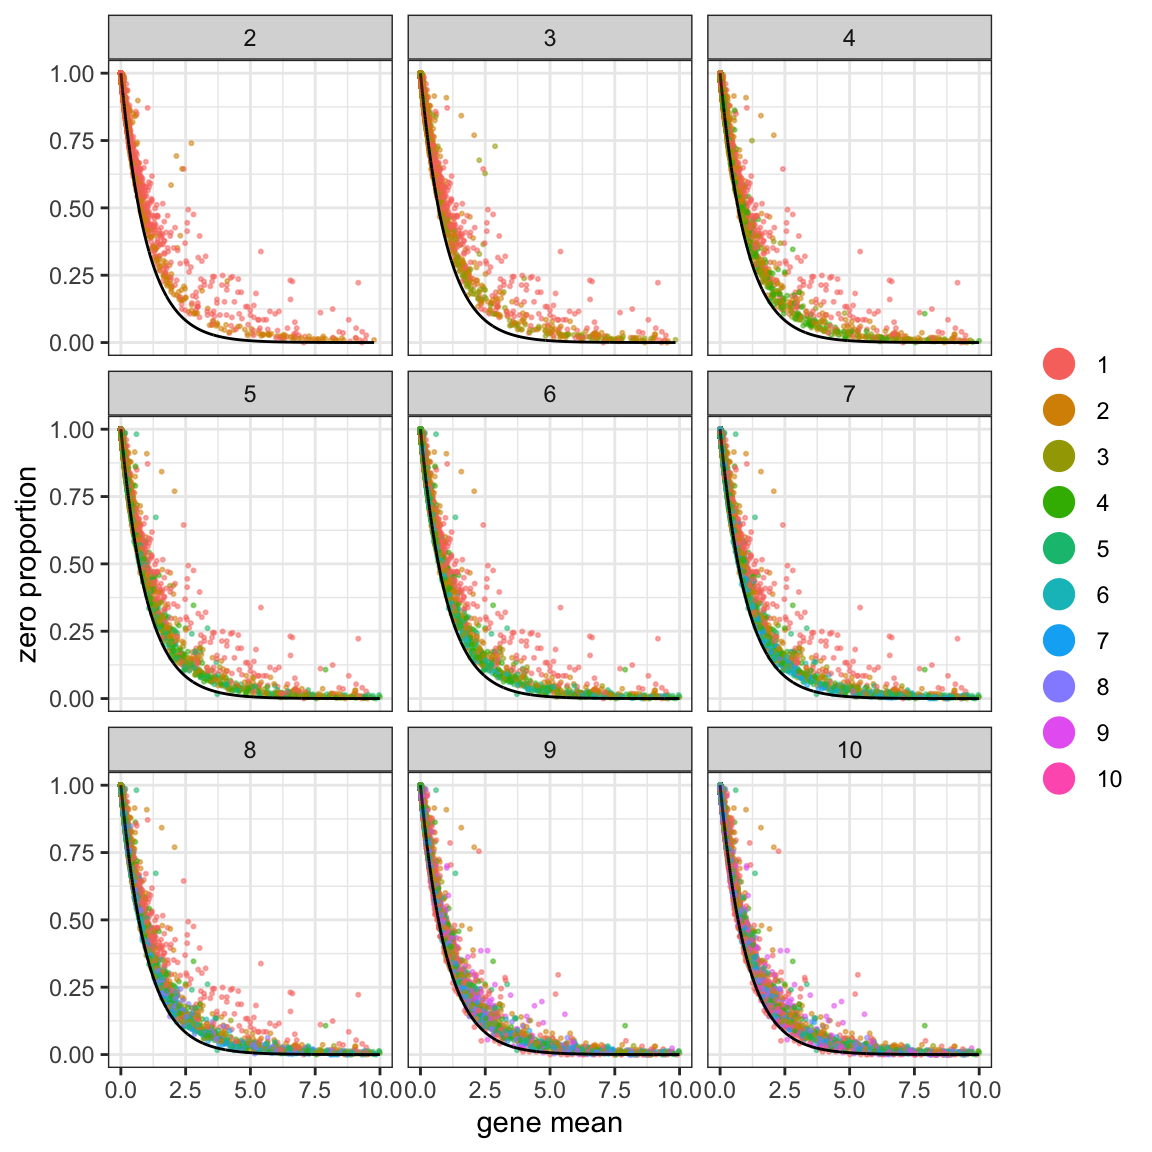
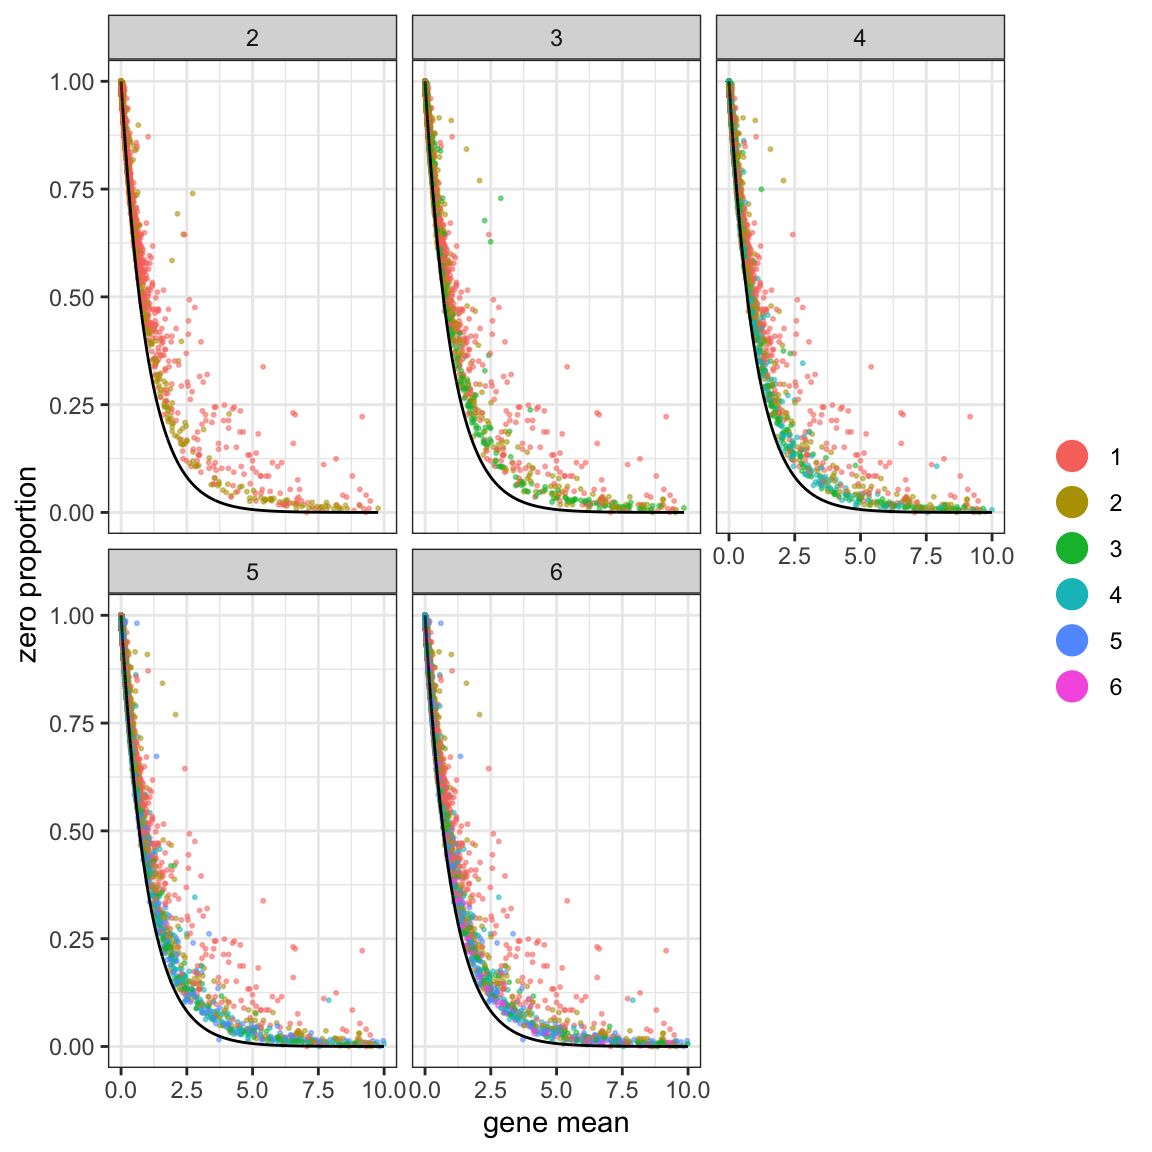
Build site.

diff --git a/docs/example2.html b/docs/example2.html
@@ -418,10 +418,10 @@ This reproducible <a href="http://rmarkdown.rstudio.com">R Markdown</a> analysis
 <div class="panel panel-default">
 <div class="panel-heading">
 <p class="panel-title">
-<a data-toggle="collapse" data-parent="#workflowr-checks" href="#strongRepositoryversionstrongahrefhttpsgithubcomtk382HIPPOtreee5f797b66f62043a381fa83a7489ae9f5953279btargetblanke5f797ba"> <span class="glyphicon glyphicon-ok text-success" aria-hidden="true"></span> <strong>Repository version:</strong> <a href="https://github.com/tk382/HIPPO/tree/e5f797b66f62043a381fa83a7489ae9f5953279b" target="_blank">e5f797b</a> </a>
+<a data-toggle="collapse" data-parent="#workflowr-checks" href="#strongRepositoryversionstrongahrefhttpsgithubcomtk382HIPPOtree3531e4b053947044296239ba485475125898c919targetblank3531e4ba"> <span class="glyphicon glyphicon-ok text-success" aria-hidden="true"></span> <strong>Repository version:</strong> <a href="https://github.com/tk382/HIPPO/tree/3531e4b053947044296239ba485475125898c919" target="_blank">3531e4b</a> </a>
 </p>
 </div>
[2 lines of base64/hex data omitted]
 <div class="panel-body">
 <p>
 Great! You are using Git for version control. Tracking code development and connecting the code version to the results is critical for reproducibility. The version displayed above was the version of the Git repository at the time these results were generated. <br><br> Note that you need to be careful to ensure that all relevant files for the analysis have been committed to Git prior to generating the results (you can use <code>wflow_publish</code> or <code>wflow_git_commit</code>). workflowr only checks the R Markdown file, but you know if there are other scripts or data files that it depends on. Below is the status of the Git repository when the results were generated:
@@ -476,6 +476,40 @@ Message
 </tr>
 </thead>
 <tbody>
+<tr>
+<td>
+Rmd
+</td>
+<td>
+<a href="https://github.com/tk382/HIPPO/blob/3531e4b053947044296239ba485475125898c919/analysis/example2.Rmd" target="_blank">3531e4b</a>
+</td>
+<td>
+tk382
+</td>
+<td>
+2020-01-22
+</td>
+<td>
+wflow_publish(“analysis/example2.Rmd”,
+</td>
+</tr>
+<tr>
+<td>
+html
+</td>
+<td>
+<a href="https://rawcdn.githack.com/tk382/HIPPO/8809a3d163a5bb6985a6655b5e6008d6e13054e7/docs/example2.html" target="_blank">8809a3d</a>
+</td>
+<td>
+tk382
+</td>
+<td>
+2020-01-22
+</td>
+<td>
+Build site.
+</td>
+</tr>
 <tr>
 <td>
 Rmd
@@ -571,9 +605,9 @@ coldata = coldata[cells, ]</code></pre>
                            colData = coldata)
 
 rm(X, rowdata, coldata); gc()</code></pre>
-<pre><code>            used  (Mb) gc trigger   (Mb) limit (Mb)  max used   (Mb)
-Ncells   5399672 288.4   10211757  545.4         NA   6410325  342.4
-Vcells 107968972 823.8  216522494 1652.0      16384 180071020 1373.9</code></pre>
+<pre><code>            used  (Mb) gc trigger (Mb) limit (Mb)  max used   (Mb)
+Ncells   5399675 288.4   10091050  539         NA   6429567  343.4
+Vcells 107969105 823.8  216522220 1652      16384 177199263 1352.0</code></pre>
 </div>
 <div id="diagnostic-plot" class="section level2">
 <h2>Diagnostic Plot</h2>
@@ -620,16 +654,12 @@ tk382
 <div id="feature-selection-and-hierarchical-clustering" class="section level2">
 <h2>Feature Selection and Hierarchical Clustering</h2>
 <pre class="r"><code>set.seed(20191031)
-sce = hippo(sce, K = 10, z_threshold = 1.5, outlier_proportion = 0.005)</code></pre>
+sce = hippo(sce, K = 6, z_threshold = 1.5, outlier_proportion = 0.005)</code></pre>
 <pre><code>[1] &quot;K = 2..&quot;
 [1] &quot;K = 3..&quot;
 [1] &quot;K = 4..&quot;
 [1] &quot;K = 5..&quot;
-[1] &quot;K = 6..&quot;
-[1] &quot;K = 7..&quot;
-[1] &quot;K = 8..&quot;
-[1] &quot;K = 9..&quot;
-[1] &quot;K = 10..&quot;</code></pre>
+[1] &quot;K = 6..&quot;</code></pre>
 </div>
 <div id="dimension-reduction-for-each-round-of-hippo" class="section level2">
 <h2>Dimension Reduction for Each Round of HIPPO</h2>
@@ -658,6 +688,17 @@ Date
 </tr>
 </thead>
 <tbody>
+<tr>
+<td>
+<a href="https://github.com/tk382/HIPPO/blob/8809a3d163a5bb6985a6655b5e6008d6e13054e7/docs/figure/example2.Rmd/unnamed-chunk-6-1.png" target="_blank">8809a3d</a>
+</td>
+<td>
+tk382
+</td>
+<td>
+2020-01-22
+</td>
+</tr>
 <tr>
 <td>
 <a href="https://github.com/tk382/HIPPO/blob/75f668f46d4bed083afa1a218e723965db5a8c31/docs/figure/example2.Rmd/unnamed-chunk-6-1.png" target="_blank">75f668f</a>
@@ -698,6 +739,17 @@ Date
 </tr>
 </thead>
 <tbody>
+<tr>
+<td>
+<a href="https://github.com/tk382/HIPPO/blob/8809a3d163a5bb6985a6655b5e6008d6e13054e7/docs/figure/example2.Rmd/unnamed-chunk-7-1.png" target="_blank">8809a3d</a>
+</td>
+<td>
+tk382
+</td>
+<td>
+2020-01-22
+</td>
+</tr>
 <tr>
 <td>
 <a href="https://github.com/tk382/HIPPO/blob/75f668f46d4bed083afa1a218e723965db5a8c31/docs/figure/example2.Rmd/unnamed-chunk-7-1.png" target="_blank">75f668f</a>
@@ -742,6 +794,17 @@ Date
 <tbody>
 <tr>
 <td>
+<a href="https://github.com/tk382/HIPPO/blob/8809a3d163a5bb6985a6655b5e6008d6e13054e7/docs/figure/example2.Rmd/unnamed-chunk-8-1.png" target="_blank">8809a3d</a>
+</td>
+<td>
+tk382
+</td>
+<td>
+2020-01-22
+</td>
+</tr>
+<tr>
+<td>
 <a href="https://github.com/tk382/HIPPO/blob/75f668f46d4bed083afa1a218e723965db5a8c31/docs/figure/example2.Rmd/unnamed-chunk-8-1.png" target="_blank">75f668f</a>
 </td>
 <td>
@@ -778,6 +841,17 @@ Date
 </tr>
 </thead>
 <tbody>
+<tr>
+<td>
+<a href="https://github.com/tk382/HIPPO/blob/8809a3d163a5bb6985a6655b5e6008d6e13054e7/docs/figure/example2.Rmd/unnamed-chunk-8-2.png" target="_blank">8809a3d</a>
+</td>
+<td>
+tk382
+</td>
+<td>
+2020-01-22
+</td>
+</tr>
 <tr>
 <td>
 <a href="https://github.com/tk382/HIPPO/blob/75f668f46d4bed083afa1a218e723965db5a8c31/docs/figure/example2.Rmd/unnamed-chunk-8-2.png" target="_blank">75f668f</a>
@@ -830,6 +904,17 @@ Date
 </tr>
 </thead>
 <tbody>
+<tr>
+<td>
+<a href="https://github.com/tk382/HIPPO/blob/8809a3d163a5bb6985a6655b5e6008d6e13054e7/docs/figure/example2.Rmd/unnamed-chunk-9-1.png" target="_blank">8809a3d</a>
+</td>
+<td>
+tk382
+</td>
+<td>
+2020-01-22
+</td>
+</tr>
 <tr>
 <td>
 <a href="https://github.com/tk382/HIPPO/blob/75f668f46d4bed083afa1a218e723965db5a8c31/docs/figure/example2.Rmd/unnamed-chunk-9-1.png" target="_blank">75f668f</a>

diff --git a/docs/example.html b/docs/example.html
@@ -418,10 +418,10 @@ This reproducible <a href="http://rmarkdown.rstudio.com">R Markdown</a> analysis
 <div class="panel panel-default">
 <div class="panel-heading">
 <p class="panel-title">
-<a data-toggle="collapse" data-parent="#workflowr-checks" href="#strongRepositoryversionstrongahrefhttpsgithubcomtk382HIPPOtreee5f797b66f62043a381fa83a7489ae9f5953279btargetblanke5f797ba"> <span class="glyphicon glyphicon-ok text-success" aria-hidden="true"></span> <strong>Repository version:</strong> <a href="https://github.com/tk382/HIPPO/tree/e5f797b66f62043a381fa83a7489ae9f5953279b" target="_blank">e5f797b</a> </a>
+<a data-toggle="collapse" data-parent="#workflowr-checks" href="#strongRepositoryversionstrongahrefhttpsgithubcomtk382HIPPOtree3531e4b053947044296239ba485475125898c919targetblank3531e4ba"> <span class="glyphicon glyphicon-ok text-success" aria-hidden="true"></span> <strong>Repository version:</strong> <a href="https://github.com/tk382/HIPPO/tree/3531e4b053947044296239ba485475125898c919" target="_blank">3531e4b</a> </a>
 </p>
 </div>
[2 lines of base64/hex data omitted]
 <div class="panel-body">
 <p>
 Great! You are using Git for version control. Tracking code development and connecting the code version to the results is critical for reproducibility. The version displayed above was the version of the Git repository at the time these results were generated. <br><br> Note that you need to be careful to ensure that all relevant files for the analysis have been committed to Git prior to generating the results (you can use <code>wflow_publish</code> or <code>wflow_git_commit</code>). workflowr only checks the R Markdown file, but you know if there are other scripts or data files that it depends on. Below is the status of the Git repository when the results were generated:
@@ -476,6 +476,23 @@ Message
 </tr>
 </thead>
 <tbody>
+<tr>
+<td>
+html
+</td>
+<td>
+<a href="https://rawcdn.githack.com/tk382/HIPPO/8809a3d163a5bb6985a6655b5e6008d6e13054e7/docs/example.html" target="_blank">8809a3d</a>
+</td>
+<td>
+tk382
+</td>
+<td>
+2020-01-22
+</td>
+<td>
+Build site.
+</td>
+</tr>
 <tr>
 <td>
 html

diff --git a/docs/about.html b/docs/about.html
@@ -358,10 +358,10 @@ This reproducible <a href="http://rmarkdown.rstudio.com">R Markdown</a> analysis
 <div class="panel panel-default">
 <div class="panel-heading">
 <p class="panel-title">
-<a data-toggle="collapse" data-parent="#workflowr-checks" href="#strongRepositoryversionstrongahrefhttpsgithubcomtk382HIPPOtreee5f797b66f62043a381fa83a7489ae9f5953279btargetblanke5f797ba"> <span class="glyphicon glyphicon-ok text-success" aria-hidden="true"></span> <strong>Repository version:</strong> <a href="https://github.com/tk382/HIPPO/tree/e5f797b66f62043a381fa83a7489ae9f5953279b" target="_blank">e5f797b</a> </a>
+<a data-toggle="collapse" data-parent="#workflowr-checks" href="#strongRepositoryversionstrongahrefhttpsgithubcomtk382HIPPOtree3531e4b053947044296239ba485475125898c919targetblank3531e4ba"> <span class="glyphicon glyphicon-ok text-success" aria-hidden="true"></span> <strong>Repository version:</strong> <a href="https://github.com/tk382/HIPPO/tree/3531e4b053947044296239ba485475125898c919" target="_blank">3531e4b</a> </a>
 </p>
 </div>
[2 lines of base64/hex data omitted]
 <div class="panel-body">
 <p>
 Great! You are using Git for version control. Tracking code development and connecting the code version to the results is critical for reproducibility. The version displayed above was the version of the Git repository at the time these results were generated. <br><br> Note that you need to be careful to ensure that all relevant files for the analysis have been committed to Git prior to generating the results (you can use <code>wflow_publish</code> or <code>wflow_git_commit</code>). workflowr only checks the R Markdown file, but you know if there are other scripts or data files that it depends on. Below is the status of the Git repository when the results were generated:
@@ -416,6 +416,23 @@ Message
 </tr>
 </thead>
 <tbody>
+<tr>
+<td>
+html
+</td>
+<td>
+<a href="https://rawcdn.githack.com/tk382/HIPPO/8809a3d163a5bb6985a6655b5e6008d6e13054e7/docs/about.html" target="_blank">8809a3d</a>
+</td>
+<td>
+tk382
+</td>
+<td>
+2020-01-22
+</td>
+<td>
+Build site.
+</td>
+</tr>
 <tr>
 <td>
 html

diff --git a/docs/index.html b/docs/index.html
@@ -358,10 +358,10 @@ This reproducible <a href="http://rmarkdown.rstudio.com">R Markdown</a> analysis
 <div class="panel panel-default">
 <div class="panel-heading">
 <p class="panel-title">
-<a data-toggle="collapse" data-parent="#workflowr-checks" href="#strongRepositoryversionstrongahrefhttpsgithubcomtk382HIPPOtreee5f797b66f62043a381fa83a7489ae9f5953279btargetblanke5f797ba"> <span class="glyphicon glyphicon-ok text-success" aria-hidden="true"></span> <strong>Repository version:</strong> <a href="https://github.com/tk382/HIPPO/tree/e5f797b66f62043a381fa83a7489ae9f5953279b" target="_blank">e5f797b</a> </a>
+<a data-toggle="collapse" data-parent="#workflowr-checks" href="#strongRepositoryversionstrongahrefhttpsgithubcomtk382HIPPOtree3531e4b053947044296239ba485475125898c919targetblank3531e4ba"> <span class="glyphicon glyphicon-ok text-success" aria-hidden="true"></span> <strong>Repository version:</strong> <a href="https://github.com/tk382/HIPPO/tree/3531e4b053947044296239ba485475125898c919" target="_blank">3531e4b</a> </a>
 </p>
 </div>
[2 lines of base64/hex data omitted]
 <div class="panel-body">
 <p>
 Great! You are using Git for version control. Tracking code development and connecting the code version to the results is critical for reproducibility. The version displayed above was the version of the Git repository at the time these results were generated. <br><br> Note that you need to be careful to ensure that all relevant files for the analysis have been committed to Git prior to generating the results (you can use <code>wflow_publish</code> or <code>wflow_git_commit</code>). workflowr only checks the R Markdown file, but you know if there are other scripts or data files that it depends on. Below is the status of the Git repository when the results were generated:
@@ -416,6 +416,23 @@ Message
 </tr>
 </thead>
 <tbody>
+<tr>
+<td>
+html
+</td>
+<td>
+<a href="https://rawcdn.githack.com/tk382/HIPPO/8809a3d163a5bb6985a6655b5e6008d6e13054e7/docs/index.html" target="_blank">8809a3d</a>
+</td>
+<td>
+tk382
+</td>
+<td>
+2020-01-22
+</td>
+<td>
+Build site.
+</td>
+</tr>
 <tr>
 <td>
 html
